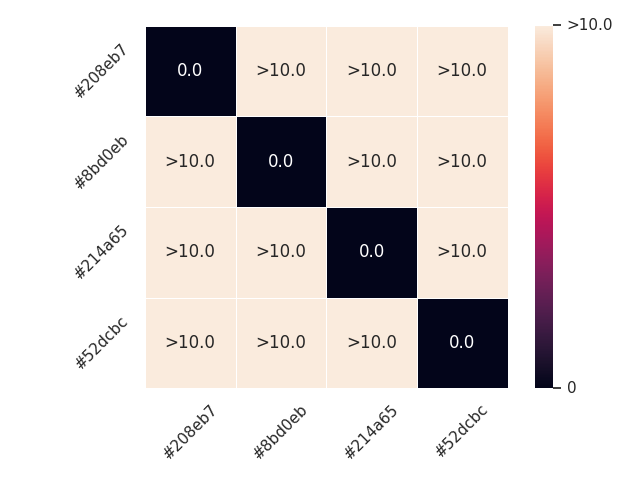
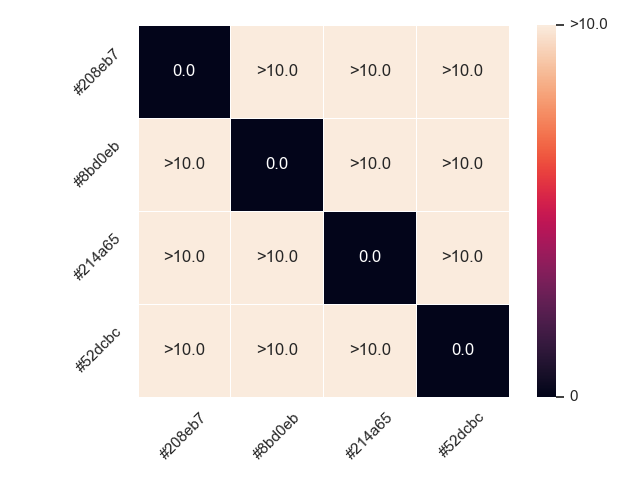
new version

diff --git a/layouts/partials/profile/benchmark.html b/layouts/partials/profile/benchmark.html
@@ -1,0 +1,55 @@
+<div class="box" style="box-shadow: 0 0.5em 1em -0.125em rgba(10, 10, 10, 0.1), 0 0px 0 1px rgba(10, 10, 10, 0.02);">
+  <article class="media">
+    <div class="media-content">
+      <div class="content">
+
+        <div class="is-divider" data-content="Benchmark"
+          style="border-top:.1rem dashed #dbdbdb57 !important;margin: 1rem 0 !important;">
+        </div>
+        <section class="section">
+          {{ if .Params.benchmark_images }}
+          {{ if (isset .Params "benchmark_images")}}
+          <div class="columns">
+            {{ $filePath := index (split .File `.`) 0}}
+            {{ range .Params.benchmark_images }}
+            {{ $fullPath := (printf "/assets/%s/%s" $filePath .path) }}
+            {{ if (fileExists (printf "static%s" $fullPath)) }}
+            <div class="column is-half">
+              <div class="is-divider" data-content="Benchmark: {{ .name }}"
+                style="border-top:.1rem dashed #dbdbdb57 !important;margin: 1rem 0 !important;">
+              </div>
+              <div class="box"
+                style="box-shadow: 0 0.5em 1em -0.125em rgba(10, 10, 10, 0.1), 0 0px 0 1px rgba(10, 10, 10, 0.02);">
+                <!-- Image -->
+                <div class="swiper-slide">
+                  <figure class="image">
+                    {{ if or (strings.HasSuffix $fullPath "webm") (strings.HasSuffix $fullPath "mp4") }}
+                    <video controls>
+                      <source src="{{$fullPath}}" type="video/webm">
+                      Sorry, your browser doesn't support embedded videos.
+                    </video>
+                    {{ else }}
+                    <img src="{{$fullPath}}" alt="{{.Title}}">
+                    {{ end }}
+                  </figure>
+                </div>
+                {{ else }}
+
+                {{end}}
+                <!-- /Image -->
+              </div>
+            </div>
+            {{ end }}
+            {{ end }}
+          </div>
+          {{ end }}
+        </section>
+
+      </div>
+
+    </div>
+    <div class="media-right">
+
+    </div>
+  </article>
+</div>

diff --git a/layouts/partials/profile/title.html b/layouts/partials/profile/title.html
@@ -21,10 +21,12 @@
             <a href="{{ "/hex/" | relLangURL }}{{ $hex | urlize }}"><span
                 class="tag is-warning is-light" style="border-top: 3px solid #{{ $hex }};border-bottom: 3px solid #{{ $hex }};">#{{ $hex }}</span></a>
             {{ end }}</h3>
+          {{ if (isset .Params "links")}}
           <h3 class="title is-4"><i class="fas fa-link"
               style="margin-right: 0.5em;"></i>{{range $link := .Params.links}}
             <a href="{{ $link.link }}" class="button is-danger is-light is-small">{{ $link.name }}</a>
             {{ end }}</h3>
+          {{ end }}
 
         </p>
 

diff --git a/layouts/colors/list.html b/layouts/colors/list.html
@@ -25,7 +25,7 @@
         <div class="column">
             <div class="columns is-multiline">
                 {{ range .Paginator.Pages }}
-                <div class="column is-one-third">
+                <div class="column is-half">
                     {{ partial "list/card.html" .}}
                 </div>
                 {{ end }}

diff --git a/layouts/colors/single.html b/layouts/colors/single.html
@@ -27,6 +27,7 @@
                     {{ partial "breadcrumb" . }}
                     <div class="container has-text-centered">
                         {{ partial "profile/title" . }}
+                        {{ partial "profile/benchmark" . }}
                     </div>
                 </div>
             </div>

diff --git a/automation/add_new_entries.py b/automation/add_new_entries.py
@@ -72,6 +72,8 @@ class Colors:
         self.json_path = json_path
         self.benchmark_path = benchmark_path
 
+        self.benchmark = self._benchmark()
+
     def _parse_form_data(self, form_item):
         """ "
         here is an example of the data field.
@@ -211,9 +213,20 @@ class Colors:
             logger.debug("Color already created!")
             res = {"status": "exist"}
         else:
+            data = self.data.copy()
+            data["benchmark_images"] = [
+                {
+                    "name": "distance matrix",
+                    "path": "distance_matrix.png"
+                },
+                {
+                    "name": "noticable matrix",
+                    "path": "noticable_matrix.png"
+                }
+            ]
             logger.debug(f"Saving markdown to {md_file}")
             string_stream = StringIO()
-            yaml.dump(OrderedDict(self.data), string_stream)
+            yaml.dump(OrderedDict(data), string_stream)
             md_content = string_stream.getvalue()
             string_stream.close()
             logger.debug(f"Markdown content: {md_content}")
@@ -249,8 +262,10 @@ class Colors:
             logger.debug("Color already created!")
             status = {"status": "exist"}
         else:
+            data = self.data.copy()
+            data["benchmark"] = self.benchmark
             with open(target, "w+") as fp:
-                json.dump(self.data, fp)
+                json.dump(data, fp)
             status = {
                 "status": "added",
                 "_id": self.data.get("_id"),
@@ -259,13 +274,7 @@ class Colors:
 
         return status
 
-    def _save_benchmark(self):
-        if self.benchmark_path is None:
-            logger.error(
-                f"saving json is special and please specify which folder to save the file to: json_path"
-            )
-            raise Exception("Please specify the benchmark_path")
-
+    def _benchmark(self):
         hex_strings = self.data.get("hex")
         hex_strings = [f"#{x}" for x in hex_strings]
 
@@ -280,12 +289,21 @@ class Colors:
             ]
         )
 
+        return m
+
+    def _save_benchmark(self):
+        if self.benchmark_path is None:
+            logger.error(
+                f"saving json is special and please specify which folder to save the file to: json_path"
+            )
+            raise Exception("Please specify the benchmark_path")
+
         filename = self._filename()
         target_folder = Path(self.benchmark_path) / filename
         if not target_folder.exists():
             target_folder.mkdir(parents=True)
 
-        charts = BenchmarkCharts(metrics=m, save_folder=target_folder)
+        charts = BenchmarkCharts(metrics=self.benchmark, save_folder=target_folder)
 
         charts.distance_matrix(show=False, save_to=True)
 
@@ -295,6 +313,10 @@ class Colors:
             "status": "added",
             "_id": self.data.get("_id"),
             "title": self.data.get("title"),
+            "files": [
+                "distance_matrix.png",
+                "noticable_matrix.png"
+            ]
         }
 
         return status

diff --git a/content/colors/208eb7_8bd0eb_214a65_52dcbc__cat__619e15650dc20200aadca5d0.md b/content/colors/208eb7_8bd0eb_214a65_52dcbc__cat__619e15650dc20200aadca5d0.md
@@ -16,5 +16,10 @@ colors:
 - hex: '#214a65'
 - hex: '#52dcbc'
 summary: This is a color palette generated by cologorical.
+benchmark_images:
+- name: distance matrix
+  path: distance_matrix.png
+- name: noticable matrix
+  path: noticable_matrix.png
 
 ---
